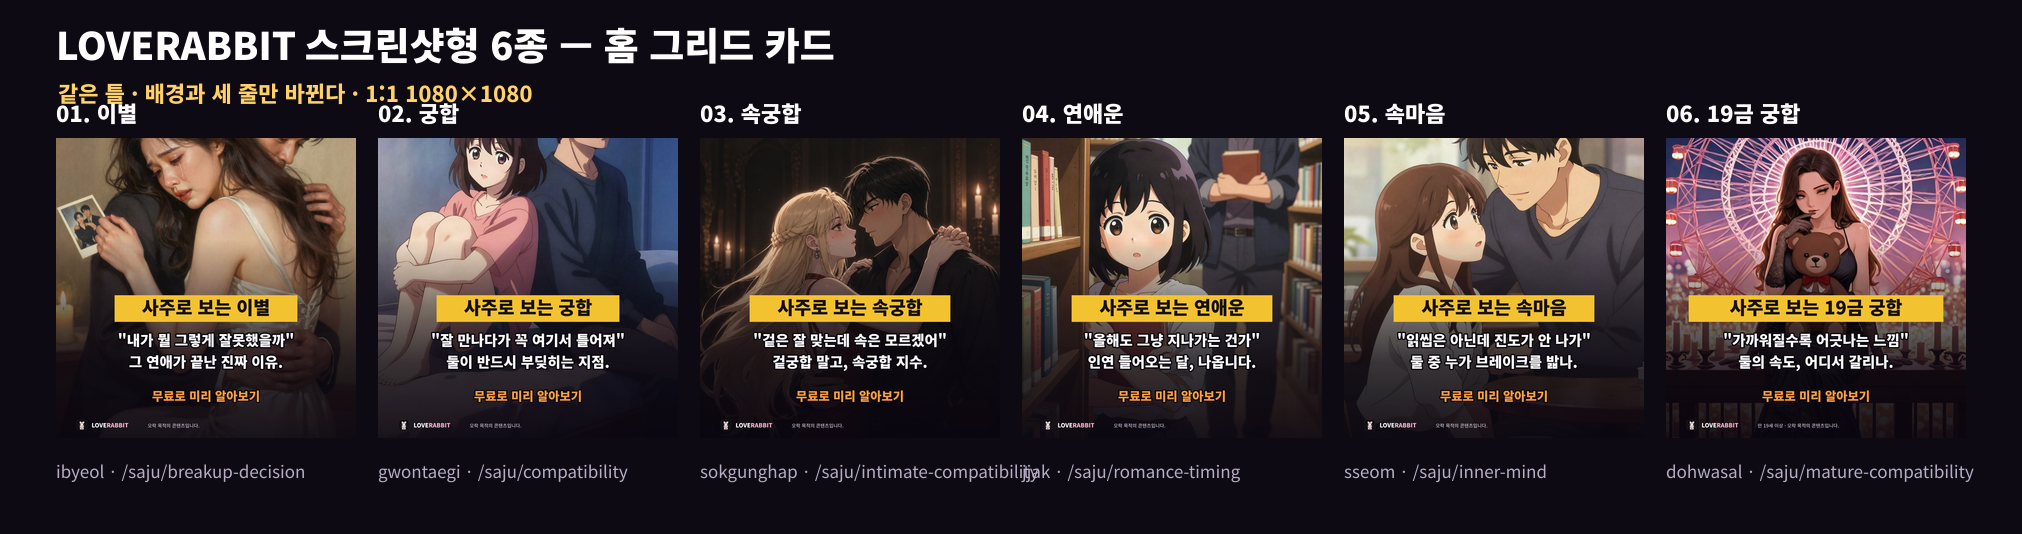
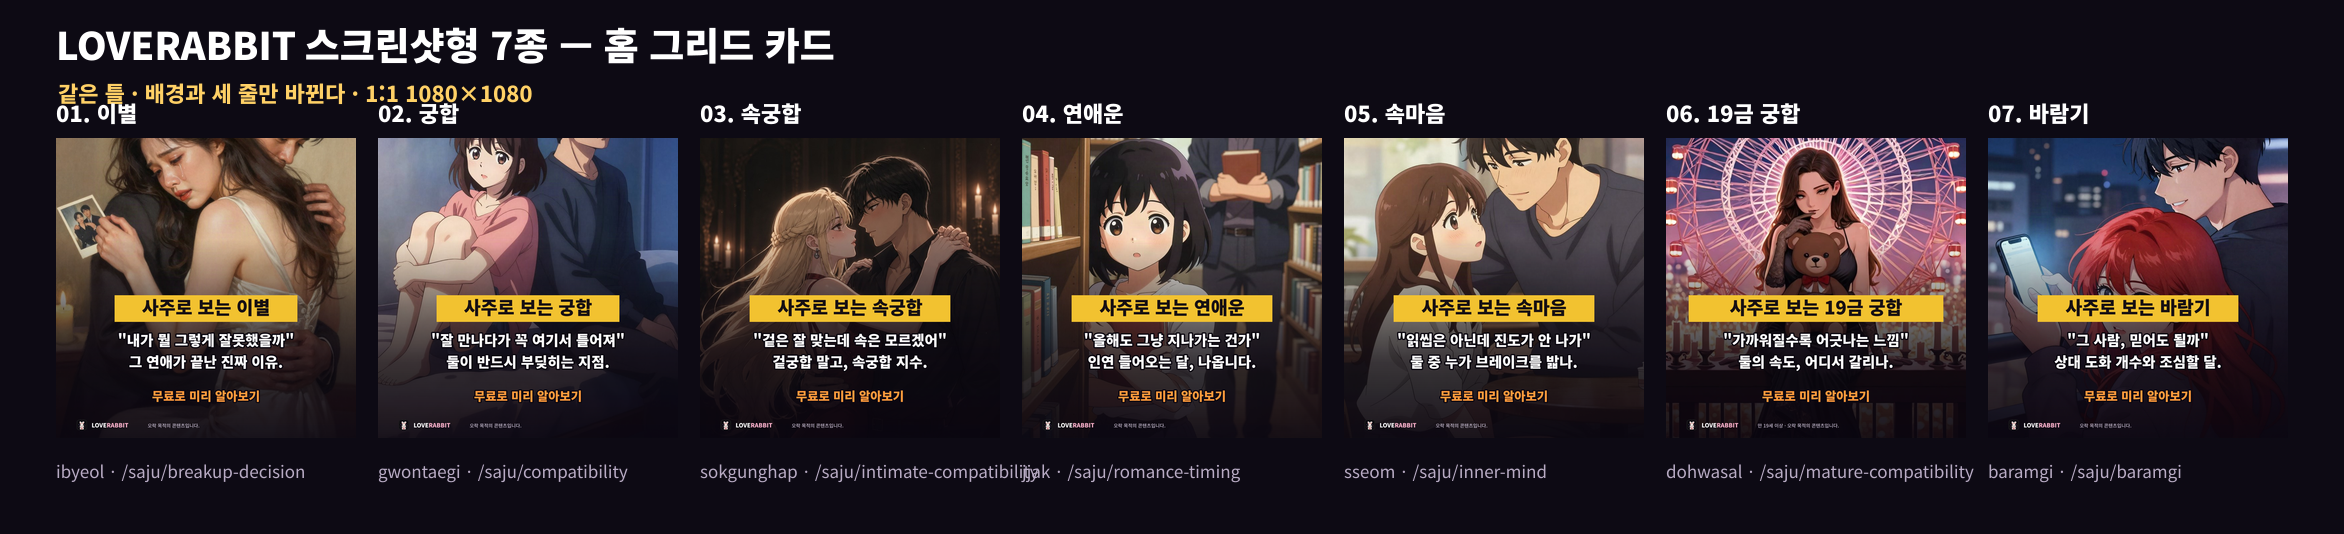
바람기 레이더를 광고 오퍼로 올린다
속마음(썸 해부) 자리에 바람기 레이더를 놓는다. 상품은 이미 있었고
광고로 나갈 길만 없었다 - 990원 오퍼도, 랜딩도, 소재도 없었다.

소재는 스크린샷형 틀을 그대로 쓴다. 배경만 갈아 끼운다.
  신당 원화   jeokya - 붉은 동백을 든 사내. 도화를 그림 하나로 말한다
  그리드 카드 baramgi - 밤에 상대 휴대폰을 보는 장면

첫 줄은 상품 headline 을 글자 그대로 옮겼다. 광고에서 보는 사람의
처지를 단정하지 않고 묻기만 하려면 그 질문 문장이 제일 안전하다.
둘째 줄의 근거는 목차 "1장 02. 도화는 몇 개이고 어디에 있는가" 와
"5장 01. 올해 조심해야 할 위험 시기" 다.

속마음 오퍼(inner_mind_990)와 소재는 지우지 않고 남겼다. 되돌리려면
collect-meta-upload 의 그 항목만 예전 값으로 되돌리면 된다.

프로덕션에서 도화살 오퍼도 함께 확인했다 - 9,900원이 990원으로
바뀌고 그 오퍼가 입력 폼까지 살아서 간다 (6/6).

diff --git a/src/lib/ad-offers.ts b/src/lib/ad-offers.ts
@@ -124,6 +124,21 @@ export const AD_OFFERS = {
     loginTitle: "내 도화의 위치와 힘을 확인해요",
     loginReason: "로그인 후 생년정보를 입력하면 도화살 진단 미리보기로 이어져요.",
   },
+  baramgi_990: {
+    id: "baramgi_990",
+    category: "baramgi",
+    price: 990,
+    landingType: "baramgi",
+    route: "/saju/baramgi",
+    // 도화살·연애운과 같이 홈 그리드 카드 그림을 그대로 쓴다. 이 주제만 배경을
+    // 따로 만들면 광고에서 본 그림과 랜딩의 그림이 달라진다.
+    heroImage: "/cards-pastel/baramgi.jpg",
+    badge: "바람기 레이더",
+    headline: "그 사람, 믿어도 되는 걸까?",
+    sub: "상대 명식의 도화 기운과 이성운 흐름으로, 흔들릴 수 있는 시기와 신호를 미리 짚습니다",
+    loginTitle: "그 사람의 위험 신호를 확인해요",
+    loginReason: "로그인 후 두 사람 정보를 입력하면 바람기 레이더 미리보기로 이어져요.",
+  },
 } as const satisfies Record<string, AdOffer>;
 
 export type AdOfferId = keyof typeof AD_OFFERS;

diff --git a/src/app/saju/baramgi/page.tsx b/src/app/saju/baramgi/page.tsx
@@ -1,0 +1,12 @@
+import type { Metadata } from "next";
+import AdSajuLanding from "@/components/AdSajuLanding";
+
+export const metadata: Metadata = {
+  title: "그 사람, 믿어도 되는 걸까? — 바람기 레이더 | 러브레빗",
+  description:
+    "상대 명식의 도화 기운과 이성운 흐름으로 흔들릴 수 있는 시기와 신호를 무료 미리보기로 확인해 보세요.",
+};
+
+export default function BaramgiLanding() {
+  return <AdSajuLanding offerId="baramgi_990" />;
+}

diff --git a/tests/ad-offers.test.ts b/tests/ad-offers.test.ts
@@ -36,6 +36,12 @@ test("광고 랜딩은 990원 오퍼를 유지하면서 실제 앱 상품으로 
       productTitle: "도화살 진단",
     },
     {
+      offerId: "baramgi_990",
+      route: "/saju/baramgi",
+      productId: "baramgi",
+      productTitle: "바람기 레이더",
+    },
+    {
       offerId: "mature_compatibility_990",
       route: "/saju/mature-compatibility",
       productId: "sokgunghap",

diff --git a/src/lib/participant-counts.ts b/src/lib/participant-counts.ts
@@ -6,6 +6,7 @@ export const AD_PARTICIPANT_COUNTS = {
   romance_timing_990: 267,
   breakup_decision_990: 693,
   dohwasal_990: 438,
+  baramgi_990: 524,
 } as const;
 
 export const PRODUCT_PARTICIPANT_COUNTS: Record<string, number> = {

diff --git a/src/lib/landing-types.ts b/src/lib/landing-types.ts
@@ -6,6 +6,7 @@ export const LANDING_TYPES = [
   "breakup_decision",
   "inner_mind",
   "dohwasal",
+  "baramgi",
 ] as const;
 
 export type LandingType = (typeof LANDING_TYPES)[number];
